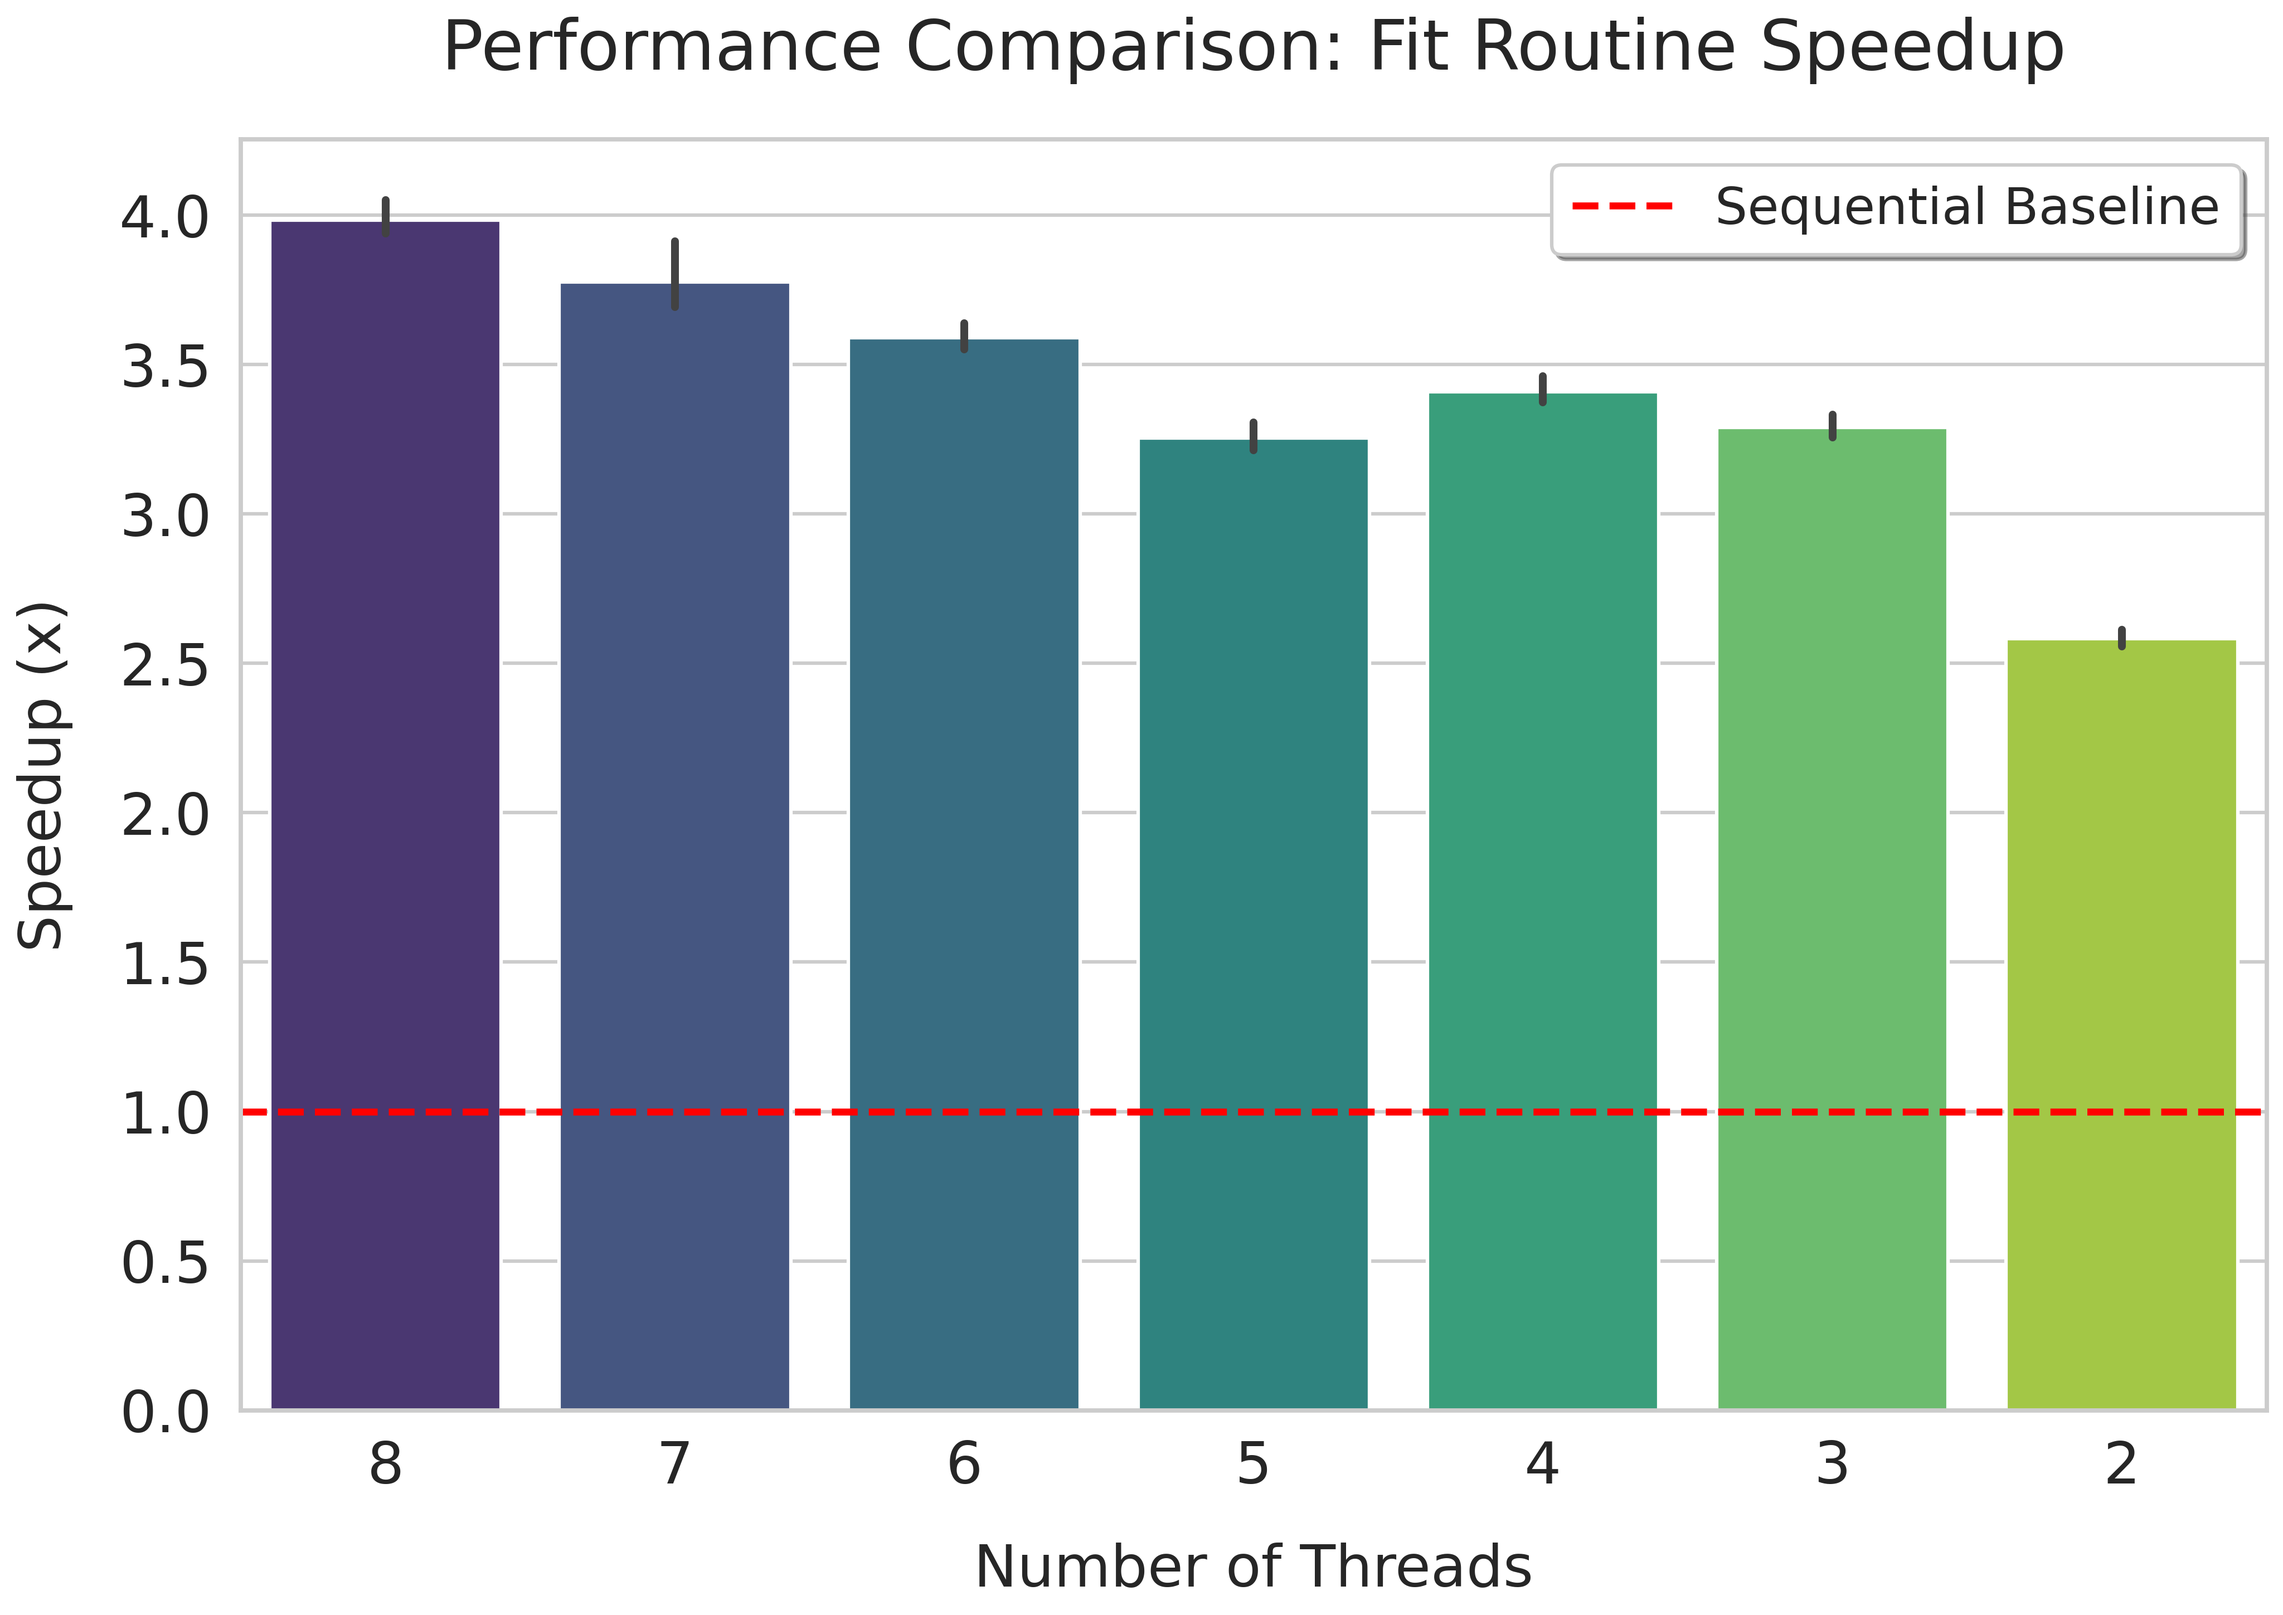
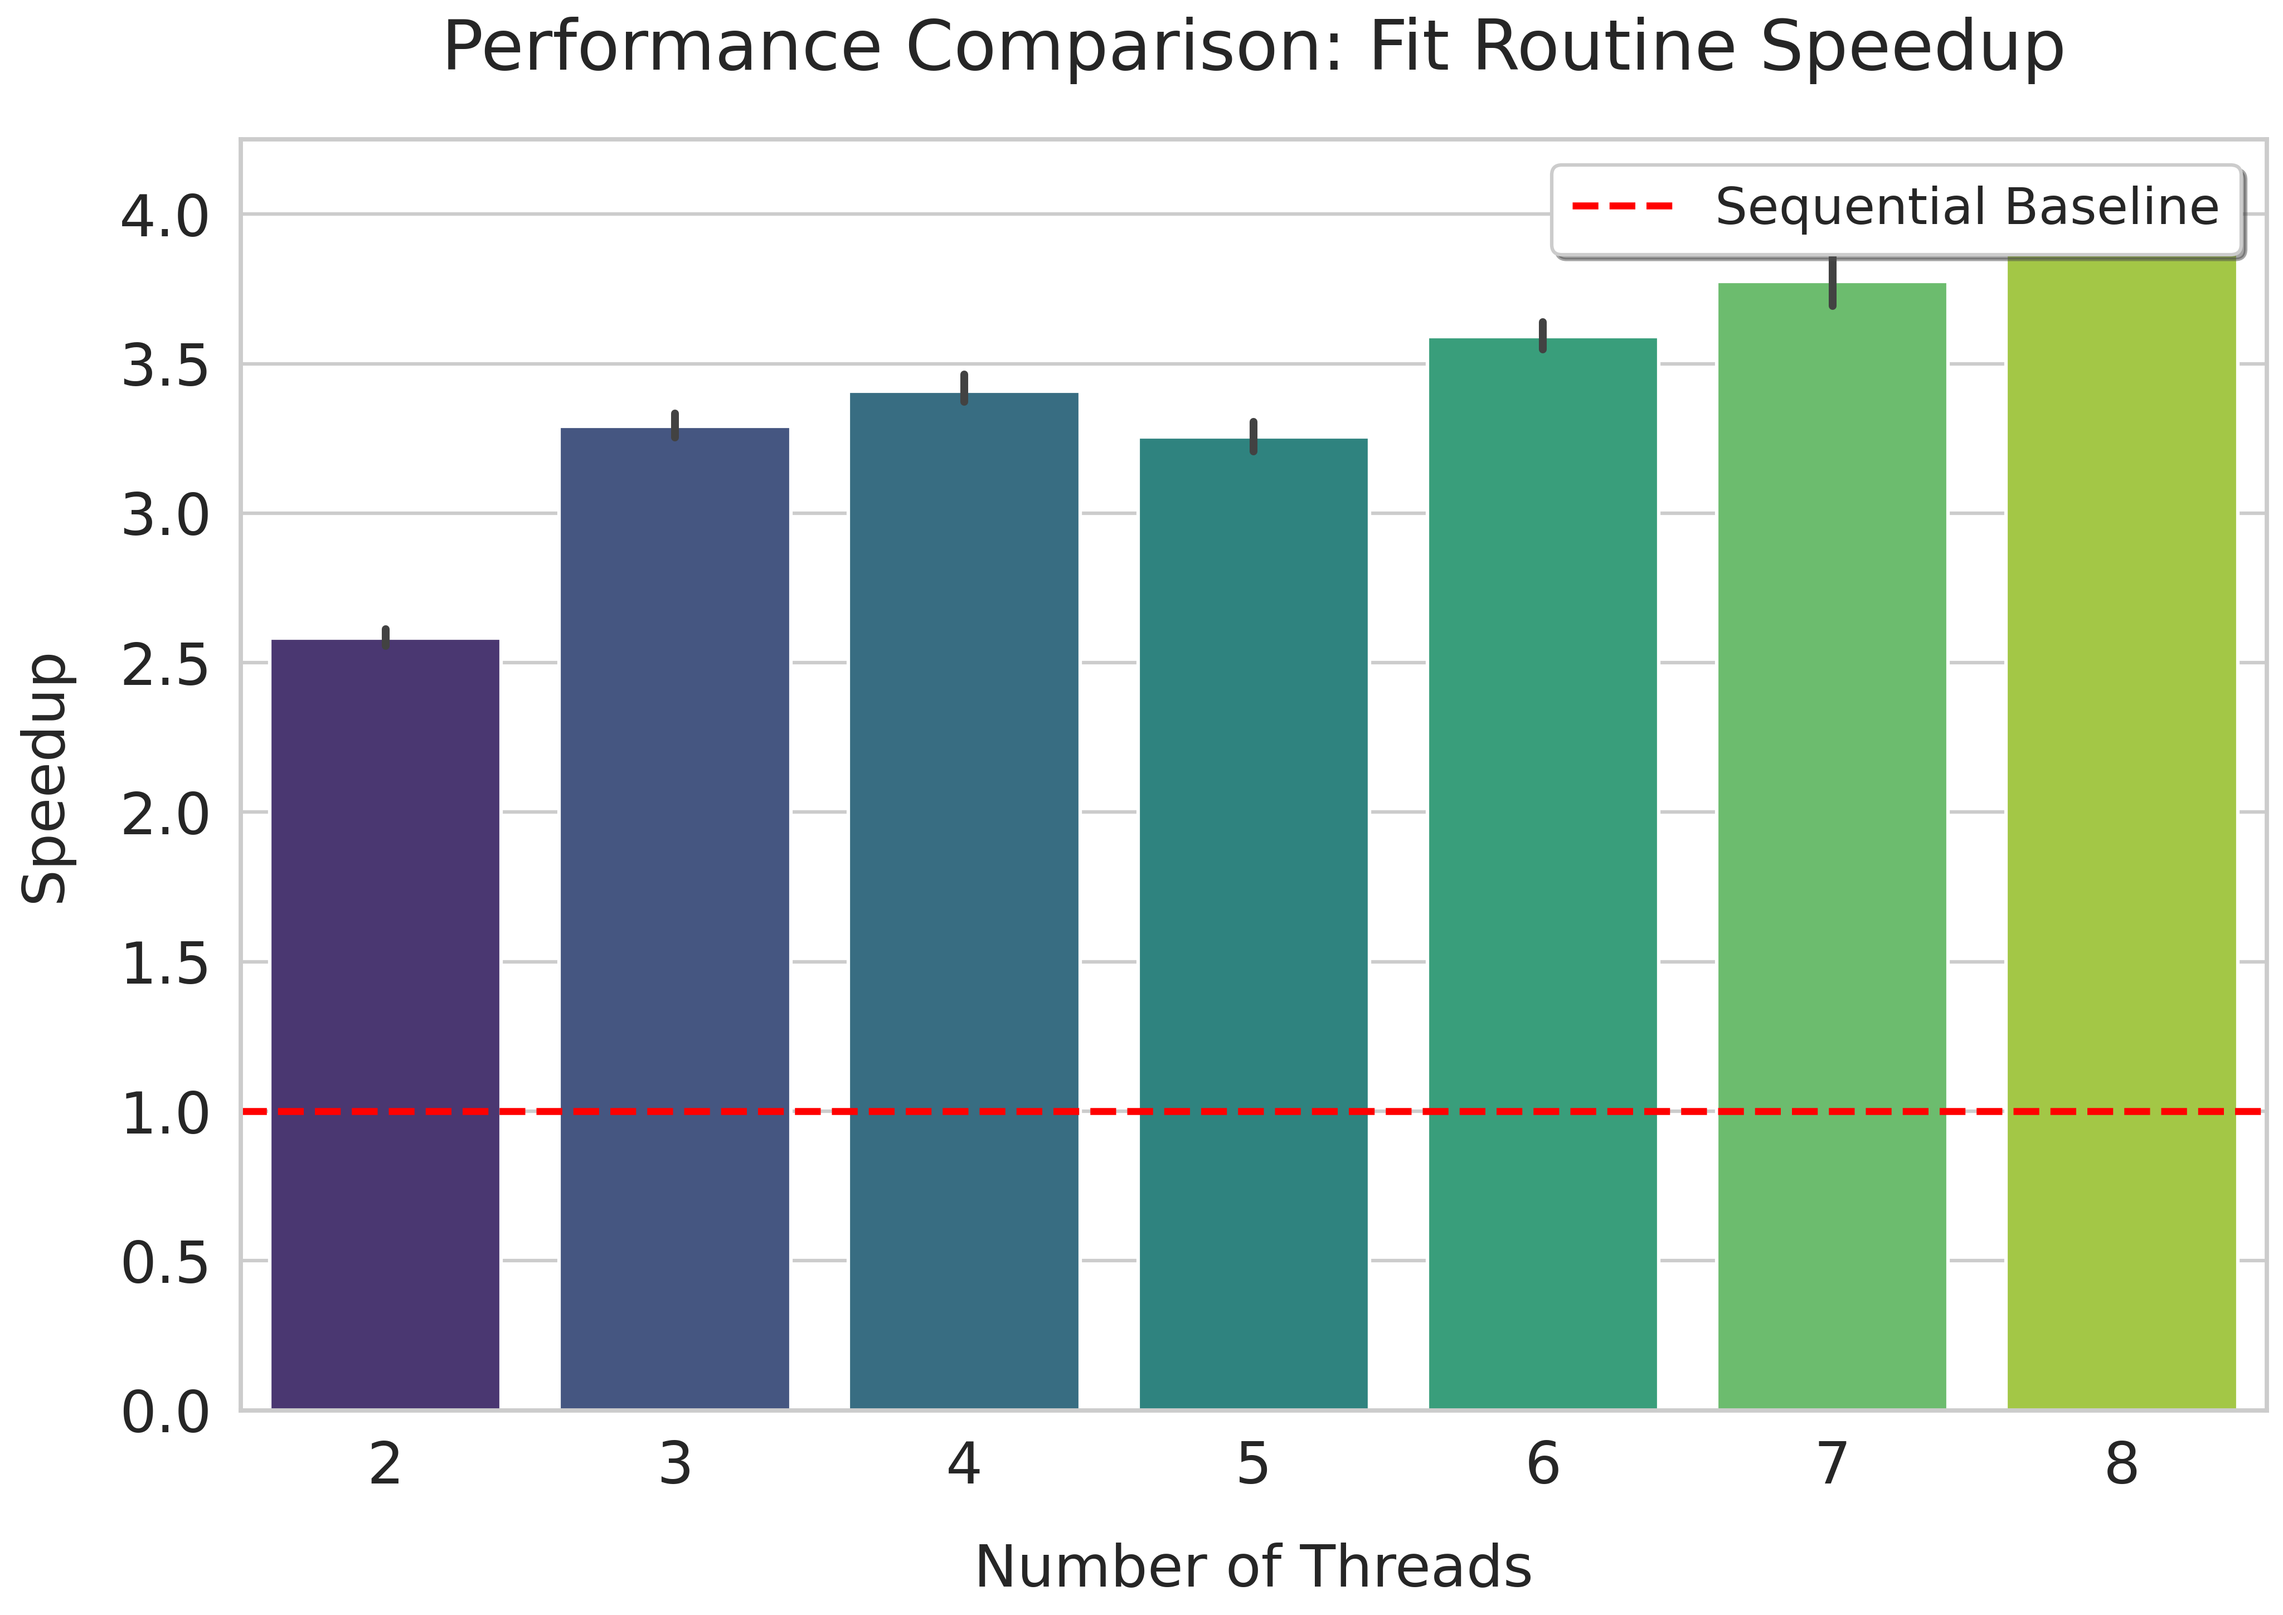
chart adjustments

diff --git a/scripts/plot_fit_speedup.py b/scripts/plot_fit_speedup.py
@@ -23,7 +23,7 @@ def generate_master_plot(results_dir, output_path):
     master_df['Speedup'] = avg_seq_time / master_df['TotalTime']
 
     plot_df = master_df[master_df['Threads'] != 1].copy()
-    plot_df = plot_df.sort_values(by='Threads', ascending=False)
+    plot_df = plot_df.sort_values(by='Threads', ascending=True)
 
     plot_df['Threads'] = plot_df['Threads'].astype(str)
     thread_order = plot_df['Threads'].unique() 
@@ -38,7 +38,7 @@ def generate_master_plot(results_dir, output_path):
     plt.axhline(1.0, color='red', linestyle='--', linewidth=3, label='Sequential Baseline')
 
     plt.title('Performance Comparison: Fit Routine Speedup', fontsize=30, pad=30)
-    plt.ylabel('Speedup (x)', fontsize=25, labelpad=20)
+    plt.ylabel('Speedup', fontsize=25, labelpad=20)
     plt.xlabel('Number of Threads', fontsize=25, labelpad=20)
     
     plt.xticks(fontsize=25) 
@@ -48,7 +48,7 @@ def generate_master_plot(results_dir, output_path):
 
     plt.tight_layout()
     plt.savefig(output_path, dpi=300, bbox_inches='tight')
-    print(f"Gráfico gerado em ordem descendente: {output_path}")
+    print(f"generated: {output_path}")
 
 os.makedirs('./plots', exist_ok=True)
 generate_master_plot('./results/inter-sample-vectorized', './plots/fit_speedup_comparison.png')

diff --git a/scripts/plot_fit_efficiency.py b/scripts/plot_fit_efficiency.py
@@ -16,7 +16,7 @@ def generate_efficiency_plot(results_dir, output_path):
     master_df['Efficiency'] = master_df['Speedup'] / master_df['Threads'].clip(upper=4)
 
     plot_df = master_df[master_df['Threads'] != 1].copy()
-    plot_df = plot_df.sort_values(by='Threads', ascending=False)
+    plot_df = plot_df.sort_values(by='Threads', ascending=True)
     
     plot_df['Threads_Str'] = plot_df['Threads'].astype(str)
     thread_order = plot_df['Threads_Str'].unique()
@@ -46,7 +46,7 @@ def generate_efficiency_plot(results_dir, output_path):
 
     plt.tight_layout()
     plt.savefig(output_path, dpi=300, bbox_inches='tight')
-    print(f"Gráfico ajustado gerado: {output_path} (Y-Limit: {y_upper_limit:.2f})")
+    print(f"generated: {output_path} (Y-Limit: {y_upper_limit:.2f})")
 
 os.makedirs('./plots', exist_ok=True)
 generate_efficiency_plot('./results/inter-sample-vectorized', './plots/fit_efficiency_threads.png')

diff --git a/scripts/plot_accuracy.py b/scripts/plot_accuracy.py
@@ -38,11 +38,11 @@ def plot_accuracy(folder_name):
     plt.legend(title='Strategy', bbox_to_anchor=(1.05, 1), loc='upper left')
     plt.tight_layout()
     plt.savefig(output_image, dpi=300)
-    print(f"Convergence plot saved: {output_image}")
+    print(f"generated: {output_image}")
 
 if __name__ == "__main__":
     if len(sys.argv) < 2:
-        print("Usage: python plot_convergence.py <folder_name>")
+        print("usage: python plot_convergence.py <folder_name>")
     else:
         os.makedirs('./plots', exist_ok=True)
         plot_accuracy(sys.argv[1])

diff --git a/scripts/plot_threads.py b/scripts/plot_threads.py
@@ -42,11 +42,11 @@ def plot_threads(folder_name):
 
     plt.tight_layout()
     plt.savefig(output_image, dpi=300)
-    print(f"Trend chart saved: {output_image}")
+    print(f"generated: {output_image}")
 
 if __name__ == "__main__":
     if len(sys.argv) < 2:
-        print("Usage: python plot.py <folder_name>")
+        print("usage: python plot.py <folder_name>")
     else:
         os.makedirs('./plots', exist_ok=True)
         plot_threads(sys.argv[1])

diff --git a/scripts/plot_ff.py b/scripts/plot_ff.py
@@ -41,7 +41,7 @@ def generate_master_plot(results_dir, output_path):
 
     plt.title('Performance Comparison: Parallelization Speedup', fontsize=25, pad=20)
     
-    plt.ylabel('Speedup (x)', fontsize=25, labelpad=15)
+    plt.ylabel('Speedup', fontsize=25, labelpad=15)
     plt.xlabel('Implementation Strategy', fontsize=25, labelpad=15)
     
     plt.xticks(fontsize=25) 

diff --git a/scripts/plot_fit.py b/scripts/plot_fit.py
@@ -47,7 +47,7 @@ def generate_session_bars(folder_name, title):
 
     plt.tight_layout()
     plt.savefig(output_image, dpi=300)
-    print(f"Bar chart saved: {output_image}")
+    print(f"generated: {output_image}")
 
 if __name__ == "__main__":
     if len(sys.argv) < 2:
